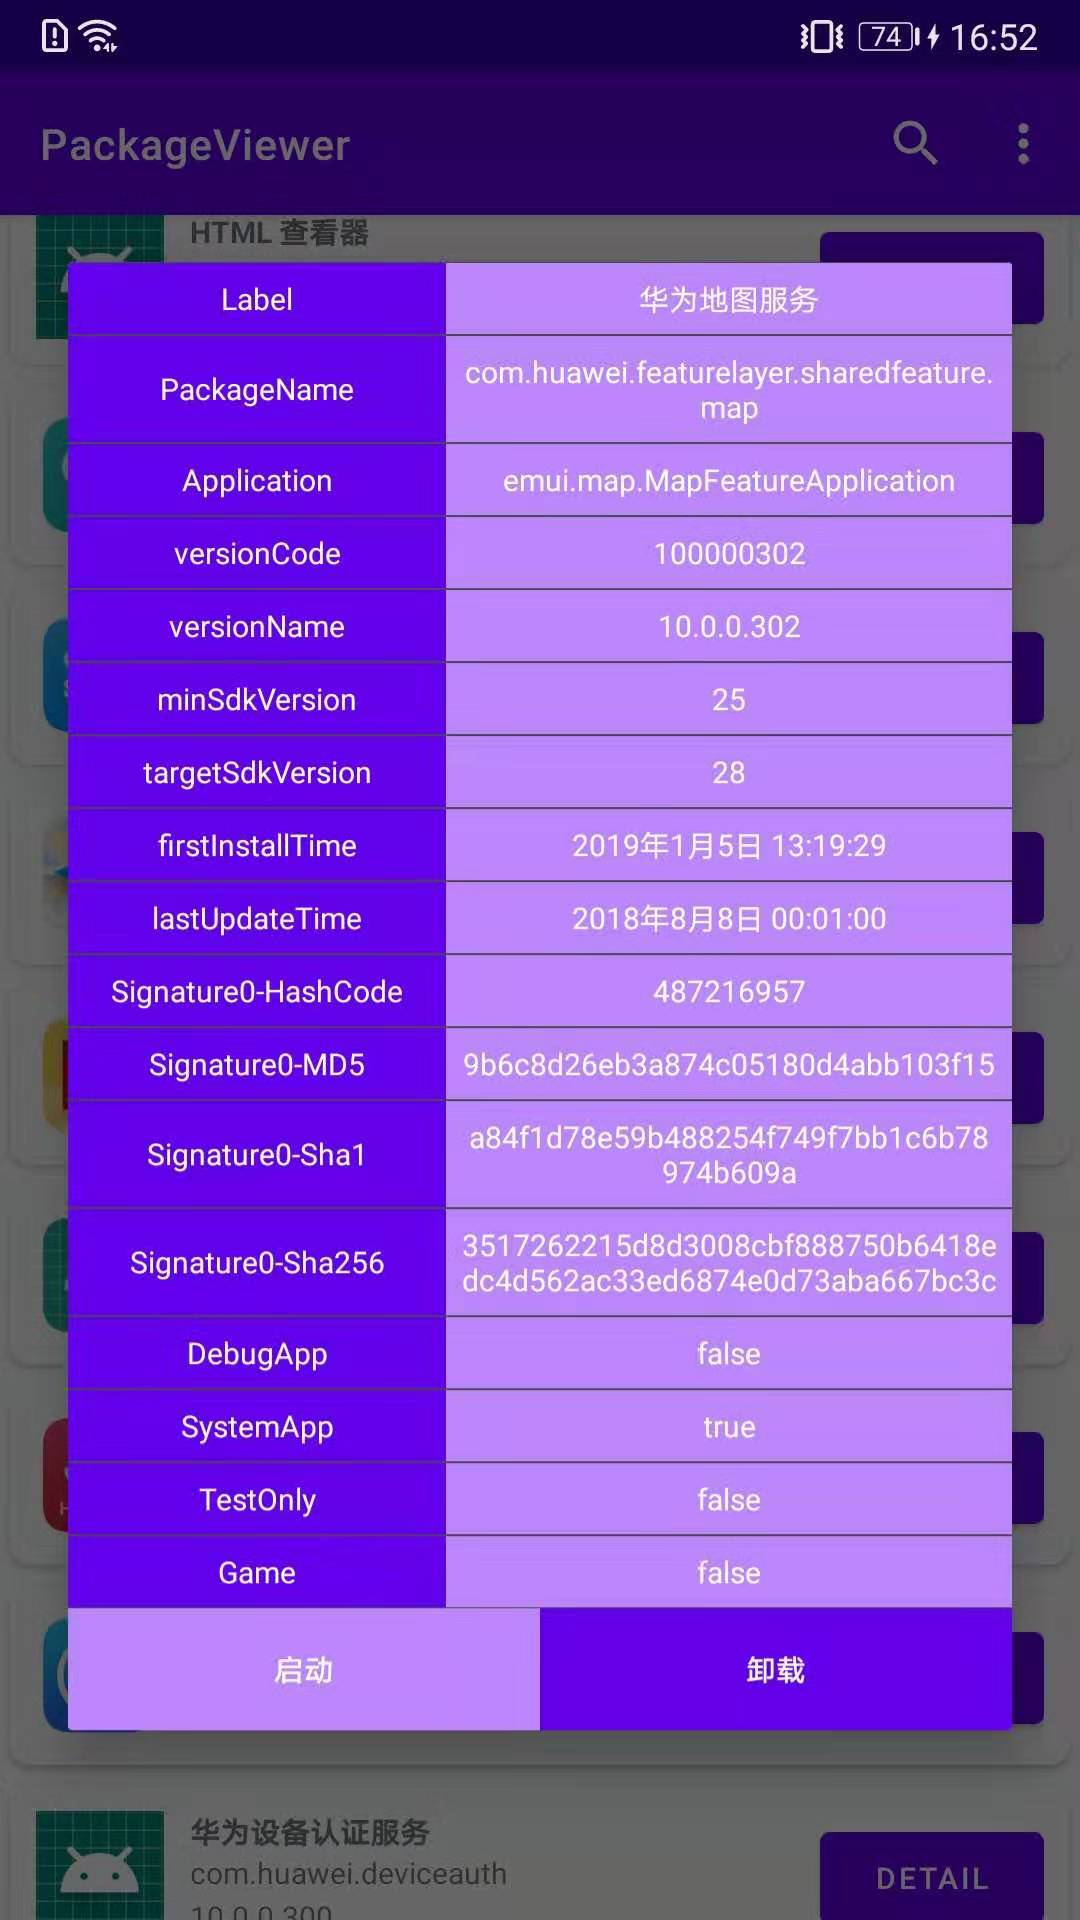
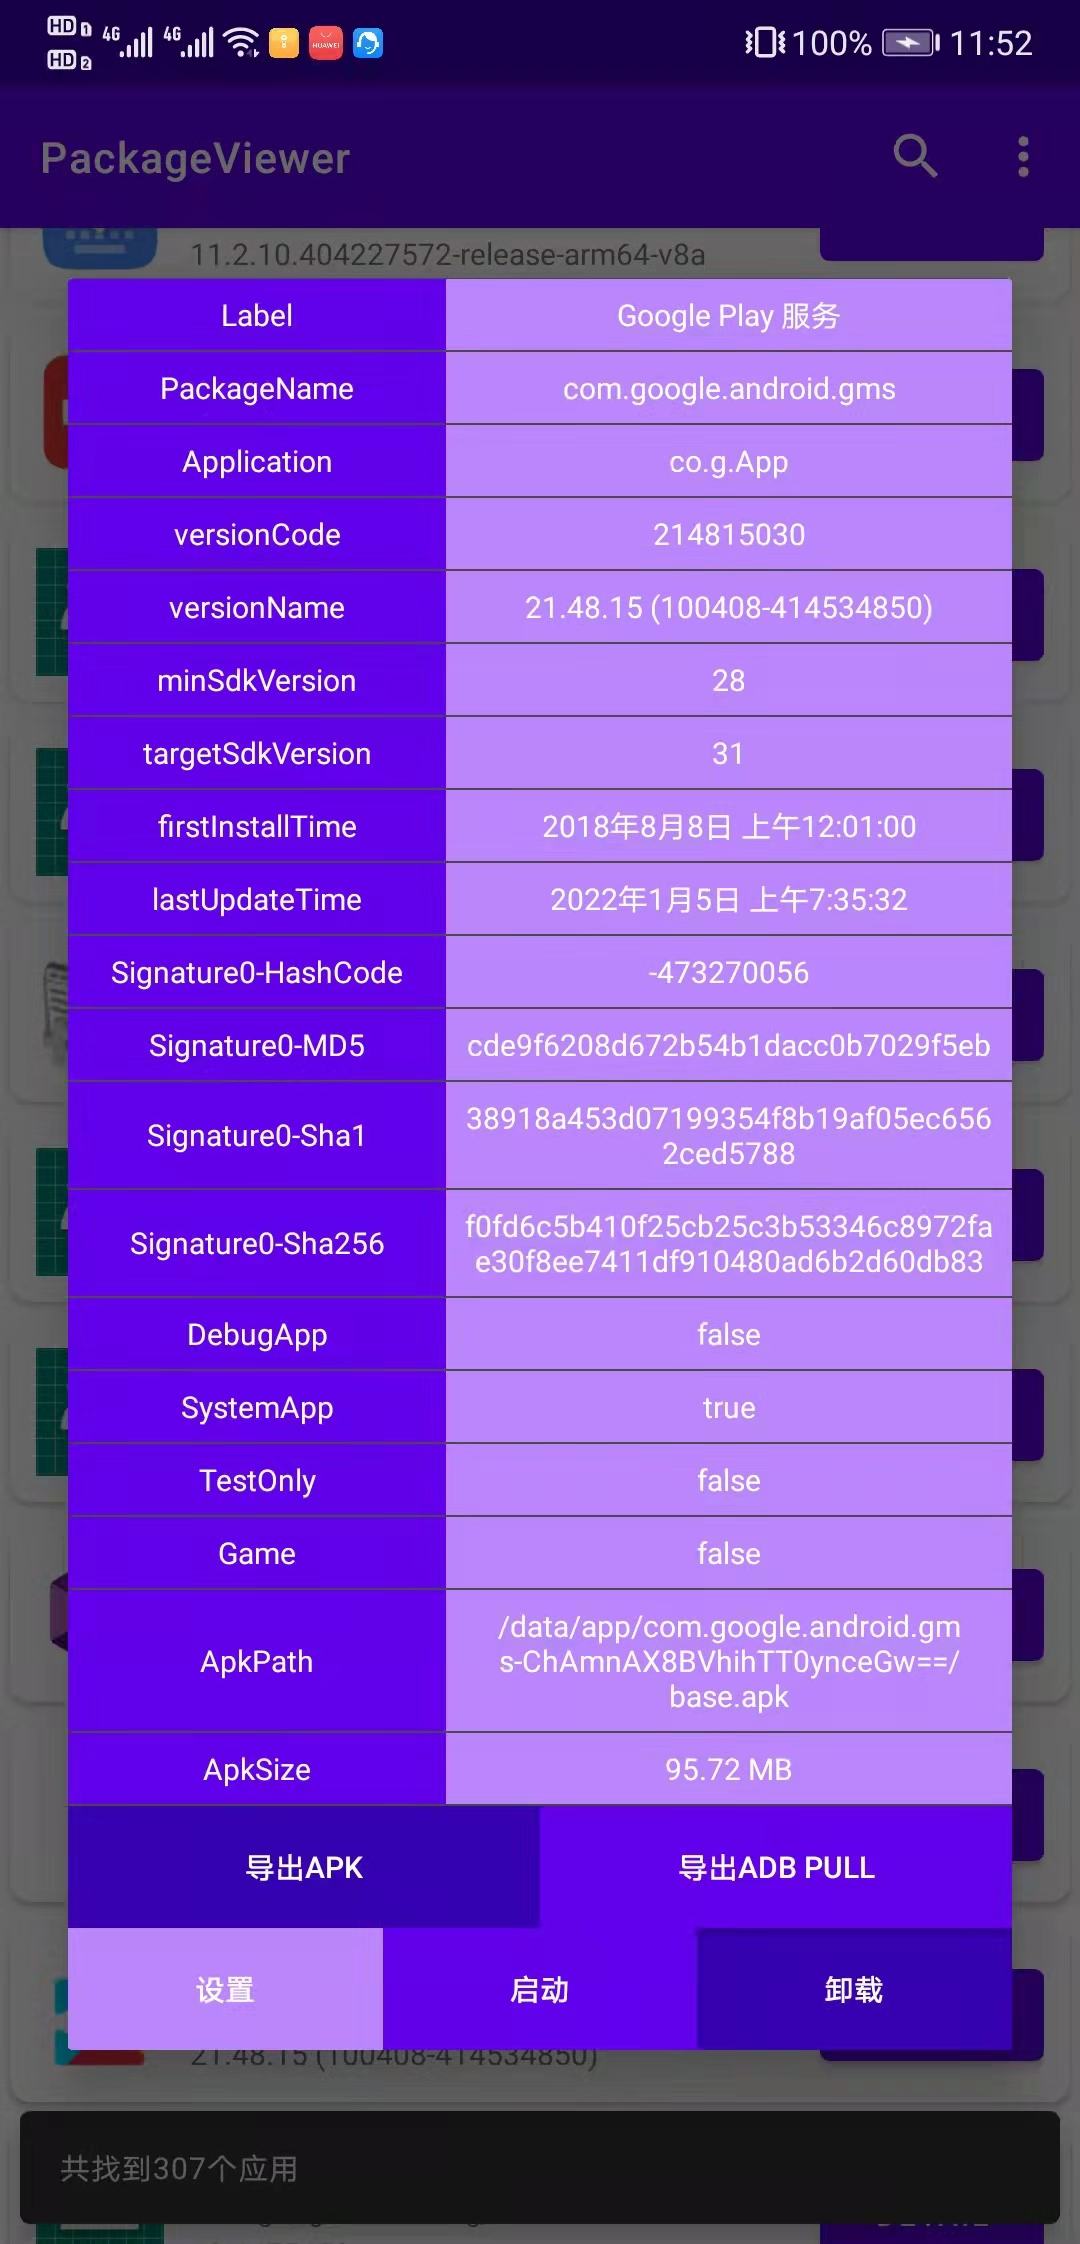
2.0版本:增加跳转到设置页、增加导出apk文件和adb pull命令、修复系统主题配色导致的首页显示问题、增加默认签名配置

diff --git a/app/src/main/java/com/mai/packageviewer/view/AppInfoDetailDialog.kt b/app/src/main/java/com/mai/packageviewer/view/AppInfoDetailDialog.kt
@@ -10,12 +10,15 @@ import android.view.LayoutInflater
 import android.view.View
 import android.widget.Toast
 import androidx.appcompat.app.AlertDialog
+import androidx.core.content.FileProvider
 import androidx.recyclerview.widget.LinearLayoutManager
 import androidx.recyclerview.widget.RecyclerView
+import com.mai.packageviewer.BuildConfig
 import com.mai.packageviewer.adapter.AppInfoDetailAdapter
 import com.mai.packageviewer.data.AppInfo
 import com.mai.packageviewer.databinding.DialogAppinfoDetailBinding
 import com.mai.packageviewer.util.AppInfoHelper.toDetailList
+import java.io.File
 
 /**
  * 详情页Dialog
@@ -40,6 +43,24 @@ class AppInfoDetailDialog(context: Context, data: AppInfo) {
         })
         binder.appInfoDetailRecyclerView.adapter = AppInfoDetailAdapter(data.toDetailList())
         // 通过AlertDialog实现
+
+        // 导出apk-file
+        binder.exportApkFile.setOnClickListener {
+            share(
+                context,
+                apkFileUri = FileProvider.getUriForFile(
+                    context,
+                    "${BuildConfig.APPLICATION_ID}.fileProvider",
+                    File(data.apkPath)
+                )
+            )
+        }
+
+        // 导出adb-pull
+        binder.exportApkPath.setOnClickListener {
+            // get "ro.serialno" err ...
+            share(context, "adb pull ${data.apkPath}")
+        }
 
         // 设置
         binder.settingsBtn.setOnClickListener {
@@ -96,6 +117,21 @@ class AppInfoDetailDialog(context: Context, data: AppInfo) {
 
         alertDialog = AlertDialog.Builder(context).setCancelable(true).setView(binder.root).create()
         alertDialog.show()
+    }
+
+    /**
+     * 调用系统分享
+     */
+    private fun share(context: Context, adbCmdStr: String? = null, apkFileUri: Uri? = null) {
+        val intent = Intent(Intent.ACTION_SEND)
+        if (adbCmdStr != null) {
+            intent.putExtra(Intent.EXTRA_TEXT, adbCmdStr)
+            intent.type = "text/plain"
+        } else if (apkFileUri != null) {
+            intent.putExtra(Intent.EXTRA_STREAM, apkFileUri)
+            intent.type = "*/*"
+        }
+        context.startActivity(Intent.createChooser(intent, "发送至..."))
     }
 
 }

diff --git a/app/src/main/java/com/mai/packageviewer/data/AppInfo.kt b/app/src/main/java/com/mai/packageviewer/data/AppInfo.kt
@@ -7,6 +7,9 @@ import android.graphics.drawable.Drawable
 import android.os.Build
 import com.mai.packageviewer.App
 import com.mai.packageviewer.view.MainMenu
+import java.io.File
+import java.math.RoundingMode
+import java.text.DecimalFormat
 
 
 class AppInfo(packageInfo: PackageInfo) {
@@ -102,6 +105,21 @@ class AppInfo(packageInfo: PackageInfo) {
      * icon
      */
     var iconDrawable: Drawable? = null
+
+    /**
+     * base.apk path
+     */
+    val apkPath: String = packageInfo.applicationInfo.publicSourceDir
+
+    /**
+     * base.apk size
+     */
+    val apkSize: String
+        get() {
+            val decimalFormat = DecimalFormat("######0.00 MB")
+            decimalFormat.roundingMode = RoundingMode.FLOOR
+            return decimalFormat.format(File(apkPath).length() / (1024 * 1024f))
+        }
 
     init {
         val applicationInfo = packageInfo.applicationInfo

diff --git a/app/src/main/java/com/mai/packageviewer/util/AppInfoHelper.kt b/app/src/main/java/com/mai/packageviewer/util/AppInfoHelper.kt
@@ -139,6 +139,8 @@ object AppInfoHelper {
         ret.add(BaseKVObject("SystemApp", "${this.isSystemApp}"))
         ret.add(BaseKVObject("TestOnly", "${this.isTestOnlyApp}"))
         ret.add(BaseKVObject("Game", "${this.isGameApp}"))
+        ret.add(BaseKVObject("ApkPath", this.apkPath))
+        ret.add(BaseKVObject("ApkSize", this.apkSize))
         return ret
     }
 

diff --git a/README.md b/README.md
@@ -1,6 +1,6 @@
 # PackageViewer
 
- Android本机应用查看器，快速查看包名、版本号、签名信息
+ Android本机应用查看器，快速查看包名、版本号、签名信息、导出 APK 文件和 adb pull 命令
 
 ## 预览
 
@@ -20,11 +20,15 @@
 
 - 应用详细信息，包含签名信息、更新时间等 （长按 value 部分可以复制）
 
-- 启动 / 卸载
+- 发送 apk 文件 / 发送 adb pull 命令 (无法获取设备号，不能直接导出 adb -s serialno pull ...)
+
+- 启动 / 卸载 / 跳转到设置页
 
 ## Feature
 
-- 打印签名信息 （唯一有用的功能）
+- 打印签名信息 （唯二有用的功能）
+
+- 导出 apk 文件和 adb pull 命令
 
 - 快速加载模式 （几乎没有变快）
 
